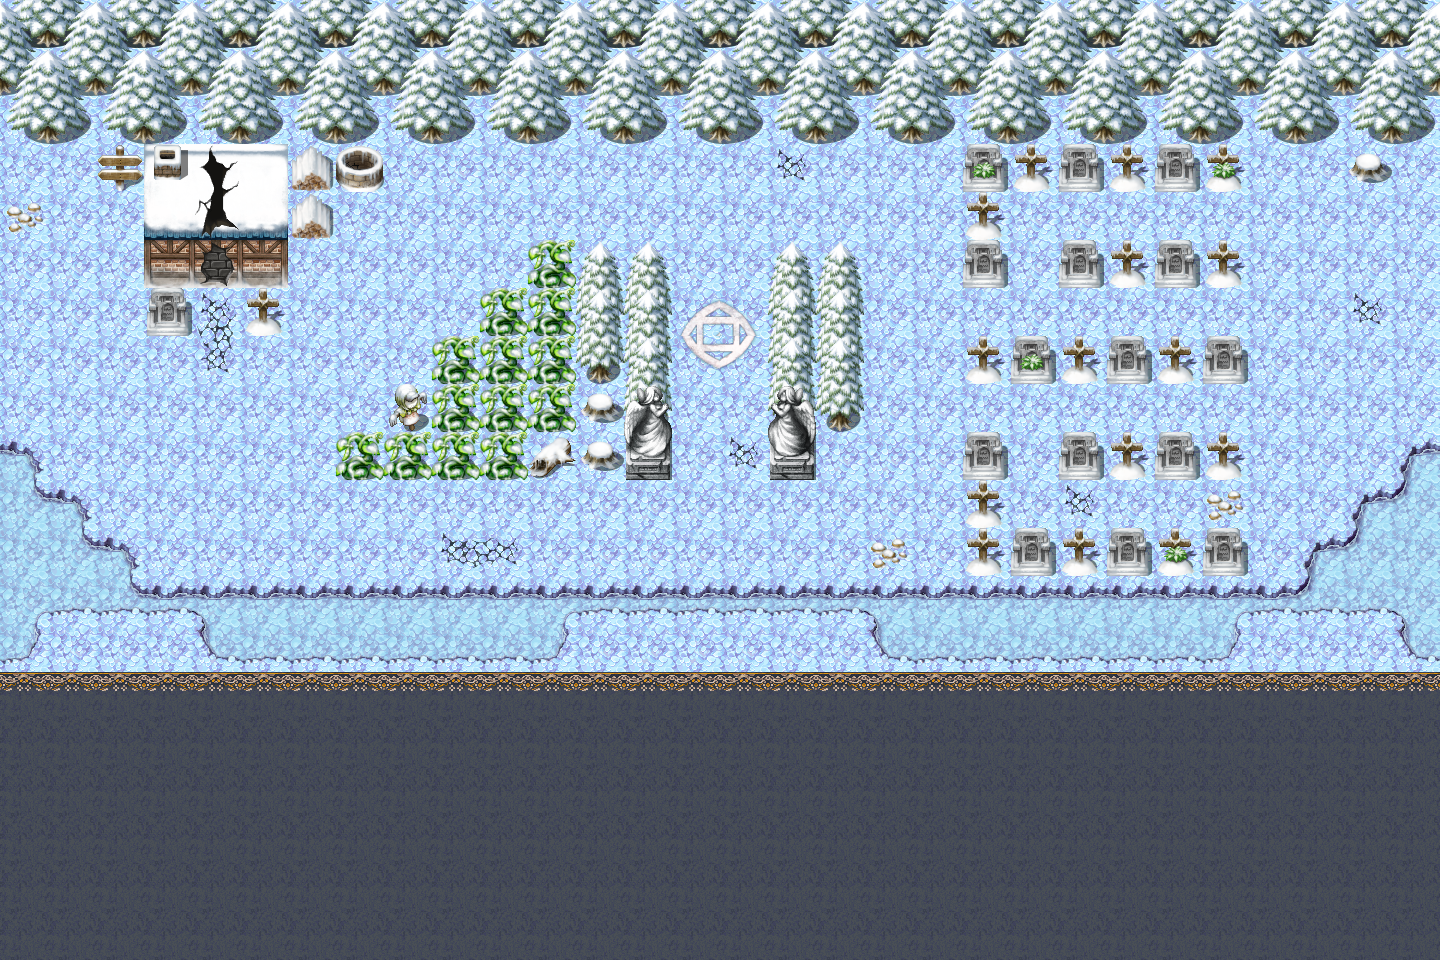
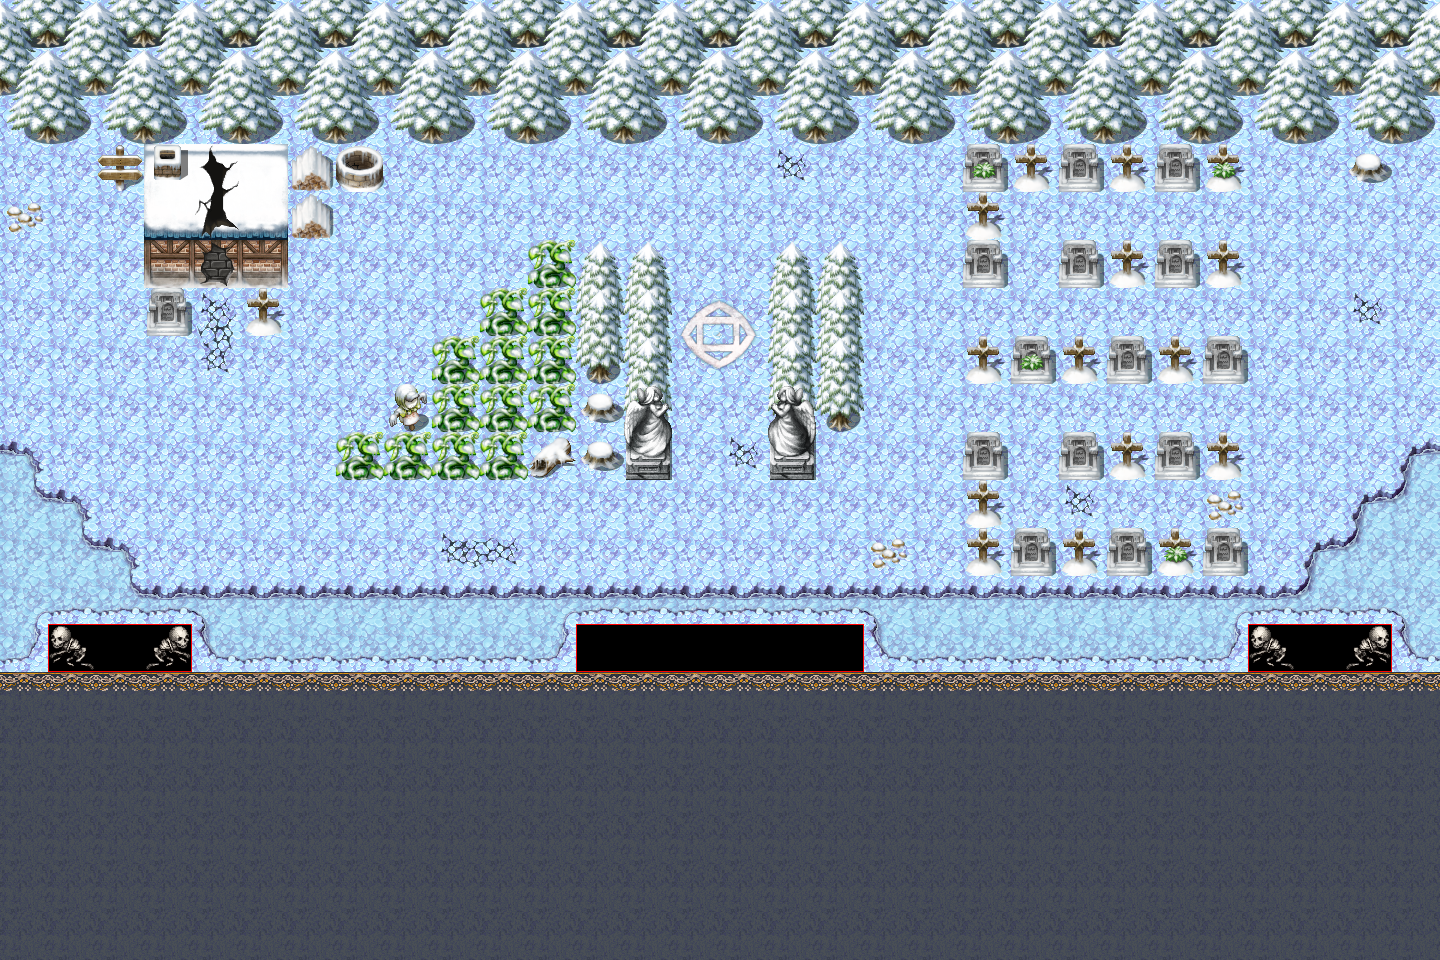
Added boss. Boss animates on card activation

Changed region(s): [[0.375, 0.625, 0.625, 0.7188], [0.8438, 0.625, 0.9688, 0.7188], [0.0312, 0.625, 0.1562, 0.7188]]

diff --git a/GOTY 2K17/src/game/Game.java b/GOTY 2K17/src/game/Game.java
@@ -16,6 +16,7 @@ import game.units.Unit;
 import game.units.heroes.Freelancer;
 import game.util.Matrix3x3f;
 import game.vectors.Vector2f;
+import game.units.monsters.*;
 
 public class Game extends TileFramework {
 
@@ -66,6 +67,8 @@ public class Game extends TileFramework {
 				deck.setRemoved(deck.getHand().indexOf(grabbedCard));
 				deck.getHand().remove(grabbedCard);
 				activatedCard = grabbedCard;
+				System.out.println(getWorld().getAllUnits().get(0).getName());
+				((Monster) getWorld().getAllUnits().get(getWorld().getAllUnits().size()-1)).setAttacking(true);
 			}else{ 
 				//Puts card back in its original spot
 				deck.getHand().get(deck.getHand().indexOf(grabbedCard)).setLocation(new Vector2f(-2.95f + ((deck.getHand().indexOf(grabbedCard)) * 1f), -0.87f));
@@ -135,21 +138,15 @@ public class Game extends TileFramework {
 		deck.getCardBack().setLocation(new Vector2f(-2.95f + 5f, -0.87f));
 		
 		deck.drawAnimation(delta);
+	
+		for (Unit unit : getWorld().getAllUnits()) unit.update(delta);
 		
-		for (Tile[] tileRow : getWorld().getTiles()) {
-			for (Tile tile : tileRow) {
-				for (Unit unit : tile.getUnits()) {
-					unit.update(delta);
-				}
-			}
-		}
 		
 	}
 	
 	@Override
 	protected void render(Graphics g) {
 		super.render(g);		
-
 
 		Matrix3x3f view = getViewportTransform();
 		Graphics2D g2d = (Graphics2D) g;

diff --git a/GOTY 2K17/src/game/units/monsters/Boss.java b/GOTY 2K17/src/game/units/monsters/Boss.java
@@ -1,0 +1,49 @@
+package game.units.monsters;
+
+import java.awt.image.BufferedImage;
+import java.net.URL;
+
+import javax.imageio.ImageIO;
+
+import game.TileFramework;
+import game.TileWorld;
+import game.vectors.AxisAlignedBoundingBox;
+import game.vectors.Vector2f;
+
+public class Boss extends Monster {
+
+	private final static int MAX_HEALTH = 200;
+	private final static int DAMAGE = 35;
+	
+	private static BufferedImage spriteSheet;
+	
+	static {
+		try {
+			URL url = Zombie.class.getResource("/resources/units/monsters/boss.png");
+			spriteSheet = ImageIO.read(url);
+		} catch (Exception e) {
+			e.printStackTrace();
+			System.exit(1);
+		}
+	}
+	
+	public Boss(TileWorld world) {
+		super(spriteSheet, world, MAX_HEALTH);
+		this.maxFrameNum = 15;
+		
+		
+		setOuterBound(new AxisAlignedBoundingBox(
+				new Vector2f(-TileFramework.TILE_SIZE_X / 2F, TileFramework.TILE_SIZE_Y / 2F),
+				new Vector2f(TileFramework.TILE_SIZE_X / 2F, -TileFramework.TILE_SIZE_Y / 2F)));
+		
+		this.setDamagePerHit(DAMAGE);
+	}
+	
+	public String getName(){
+		return "Lazrius";
+	}
+	
+	public void bossAttack(){
+		this.setAttacking(true);
+	}
+}

diff --git a/GOTY 2K17/src/game/maps/Map2.java b/GOTY 2K17/src/game/maps/Map2.java
@@ -12,7 +12,12 @@ import java.util.Set;
 import javax.imageio.ImageIO;
 
 import game.TileLocation;
+import game.TileWorld;
+import game.units.Unit;
+import game.units.monsters.Boss;
+import game.units.monsters.Monster;
 import game.util.Direction;
+import game.vectors.Vector2f;
 
 public class Map2 extends GameMap {
 
@@ -133,6 +138,15 @@ public class Map2 extends GameMap {
 	@Override
 	public Set<Direction> getHardcodedDirections(TileLocation loc) {
 		return PATHFINDING_DIRECTIONS.get(loc);
+	}
+	
+	public void addBoss(TileWorld world, Boss unit ){
+			unit.setLocation(new Vector2f(2.6f,.75f));
+			world.getTiles()[27][6].getUnits().add(unit);
+			if (unit instanceof Monster) {
+				world.policyIteration(tile -> tile.getAggroPathfinding());
+			
+		}
 	}
 
 }

diff --git a/GOTY 2K17/src/game/units/monsters/Monster.java b/GOTY 2K17/src/game/units/monsters/Monster.java
@@ -8,7 +8,7 @@ import game.units.LivingUnit;
 
 public abstract class Monster extends LivingUnit {
 
-	private boolean attacking = true;
+	private boolean attacking;
 	private float animationTime = 0;
 	protected int maxFrameNum = 1;
 	protected int frameNum=-1;
@@ -28,11 +28,16 @@ public abstract class Monster extends LivingUnit {
 				frameNum++;
 				if (frameNum > maxFrameNum) {
 					frameNum = 0;
+					attacking = false;
 				}
 				this.setRenderedImage(this.getAttackAnimation().get(frameNum));
 			}
 		} else {
 			this.setRenderedImage(this.getAttackAnimation().get(0));
 		}
+	}
+	
+	public void setAttacking(boolean attacking){
+		this.attacking = attacking;
 	}
 }

diff --git a/GOTY 2K17/src/game/TileFramework.java b/GOTY 2K17/src/game/TileFramework.java
@@ -11,6 +11,7 @@ import java.util.Set;
 import game.maps.Map2;
 import game.sprites.BoundingSprite;
 import game.units.Unit;
+import game.units.monsters.Boss;
 import game.util.Direction;
 import game.util.Matrix3x3f;
 import game.util.SimpleFramework;
@@ -50,6 +51,7 @@ public class TileFramework extends SimpleFramework {
 	protected void initialize() {
 		super.initialize();
 		tileWorld = new TileWorld(new Map2(), TILES_X, TILES_Y, TILE_SIZE_X, TILE_SIZE_Y, APP_WORLD_WIDTH, APP_WORLD_HEIGHT);
+		tileWorld.getMap().addBoss(getWorld(), new Boss(getWorld()));
 	}
 	
 	@Override

diff --git a/GOTY 2K17/src/game/TileWorld.java b/GOTY 2K17/src/game/TileWorld.java
@@ -1,5 +1,6 @@
 package game;
 
+import java.util.ArrayList;
 import java.util.HashSet;
 import java.util.Set;
 
@@ -45,6 +46,18 @@ public class TileWorld {
 	
 	public GameMap getMap() {
 		return map;
+	}
+	
+	public ArrayList<Unit> getAllUnits(){
+		ArrayList<Unit> allUnits = new ArrayList<>();
+		for (Tile[] tileRow : getTiles()) {
+			for (Tile tile : tileRow) {
+				for (Unit unit : tile.getUnits()) {
+					allUnits.add(unit);
+				}
+			}
+		}
+		return allUnits;
 	}
 	
 	public void addUnitToTile(TileLocation location, Unit unit) {

diff --git a/GOTY 2K17/src/game/maps/GameMap.java b/GOTY 2K17/src/game/maps/GameMap.java
@@ -5,7 +5,9 @@ import java.util.List;
 import java.util.Set;
 
 import game.TileLocation;
+import game.TileWorld;
 import game.sprites.SpriteObject;
+import game.units.monsters.Boss;
 import game.util.Direction;
 
 public abstract class GameMap extends SpriteObject {
@@ -23,5 +25,6 @@ public abstract class GameMap extends SpriteObject {
 	public abstract List<TileLocation> getGoalLocations();
 	
 	public abstract Set<Direction> getHardcodedDirections(TileLocation loc);
-	
+
+	public abstract void addBoss(TileWorld world, Boss boss);
 }

diff --git a/GOTY 2K17/src/game/TileLocation.java b/GOTY 2K17/src/game/TileLocation.java
@@ -51,4 +51,9 @@ public class TileLocation {
 		return true;
 	}
 	
+	@Override
+	public String toString(){
+		return "(" + this.x + ", " + this.y + ")";
+	}
+	
 }
